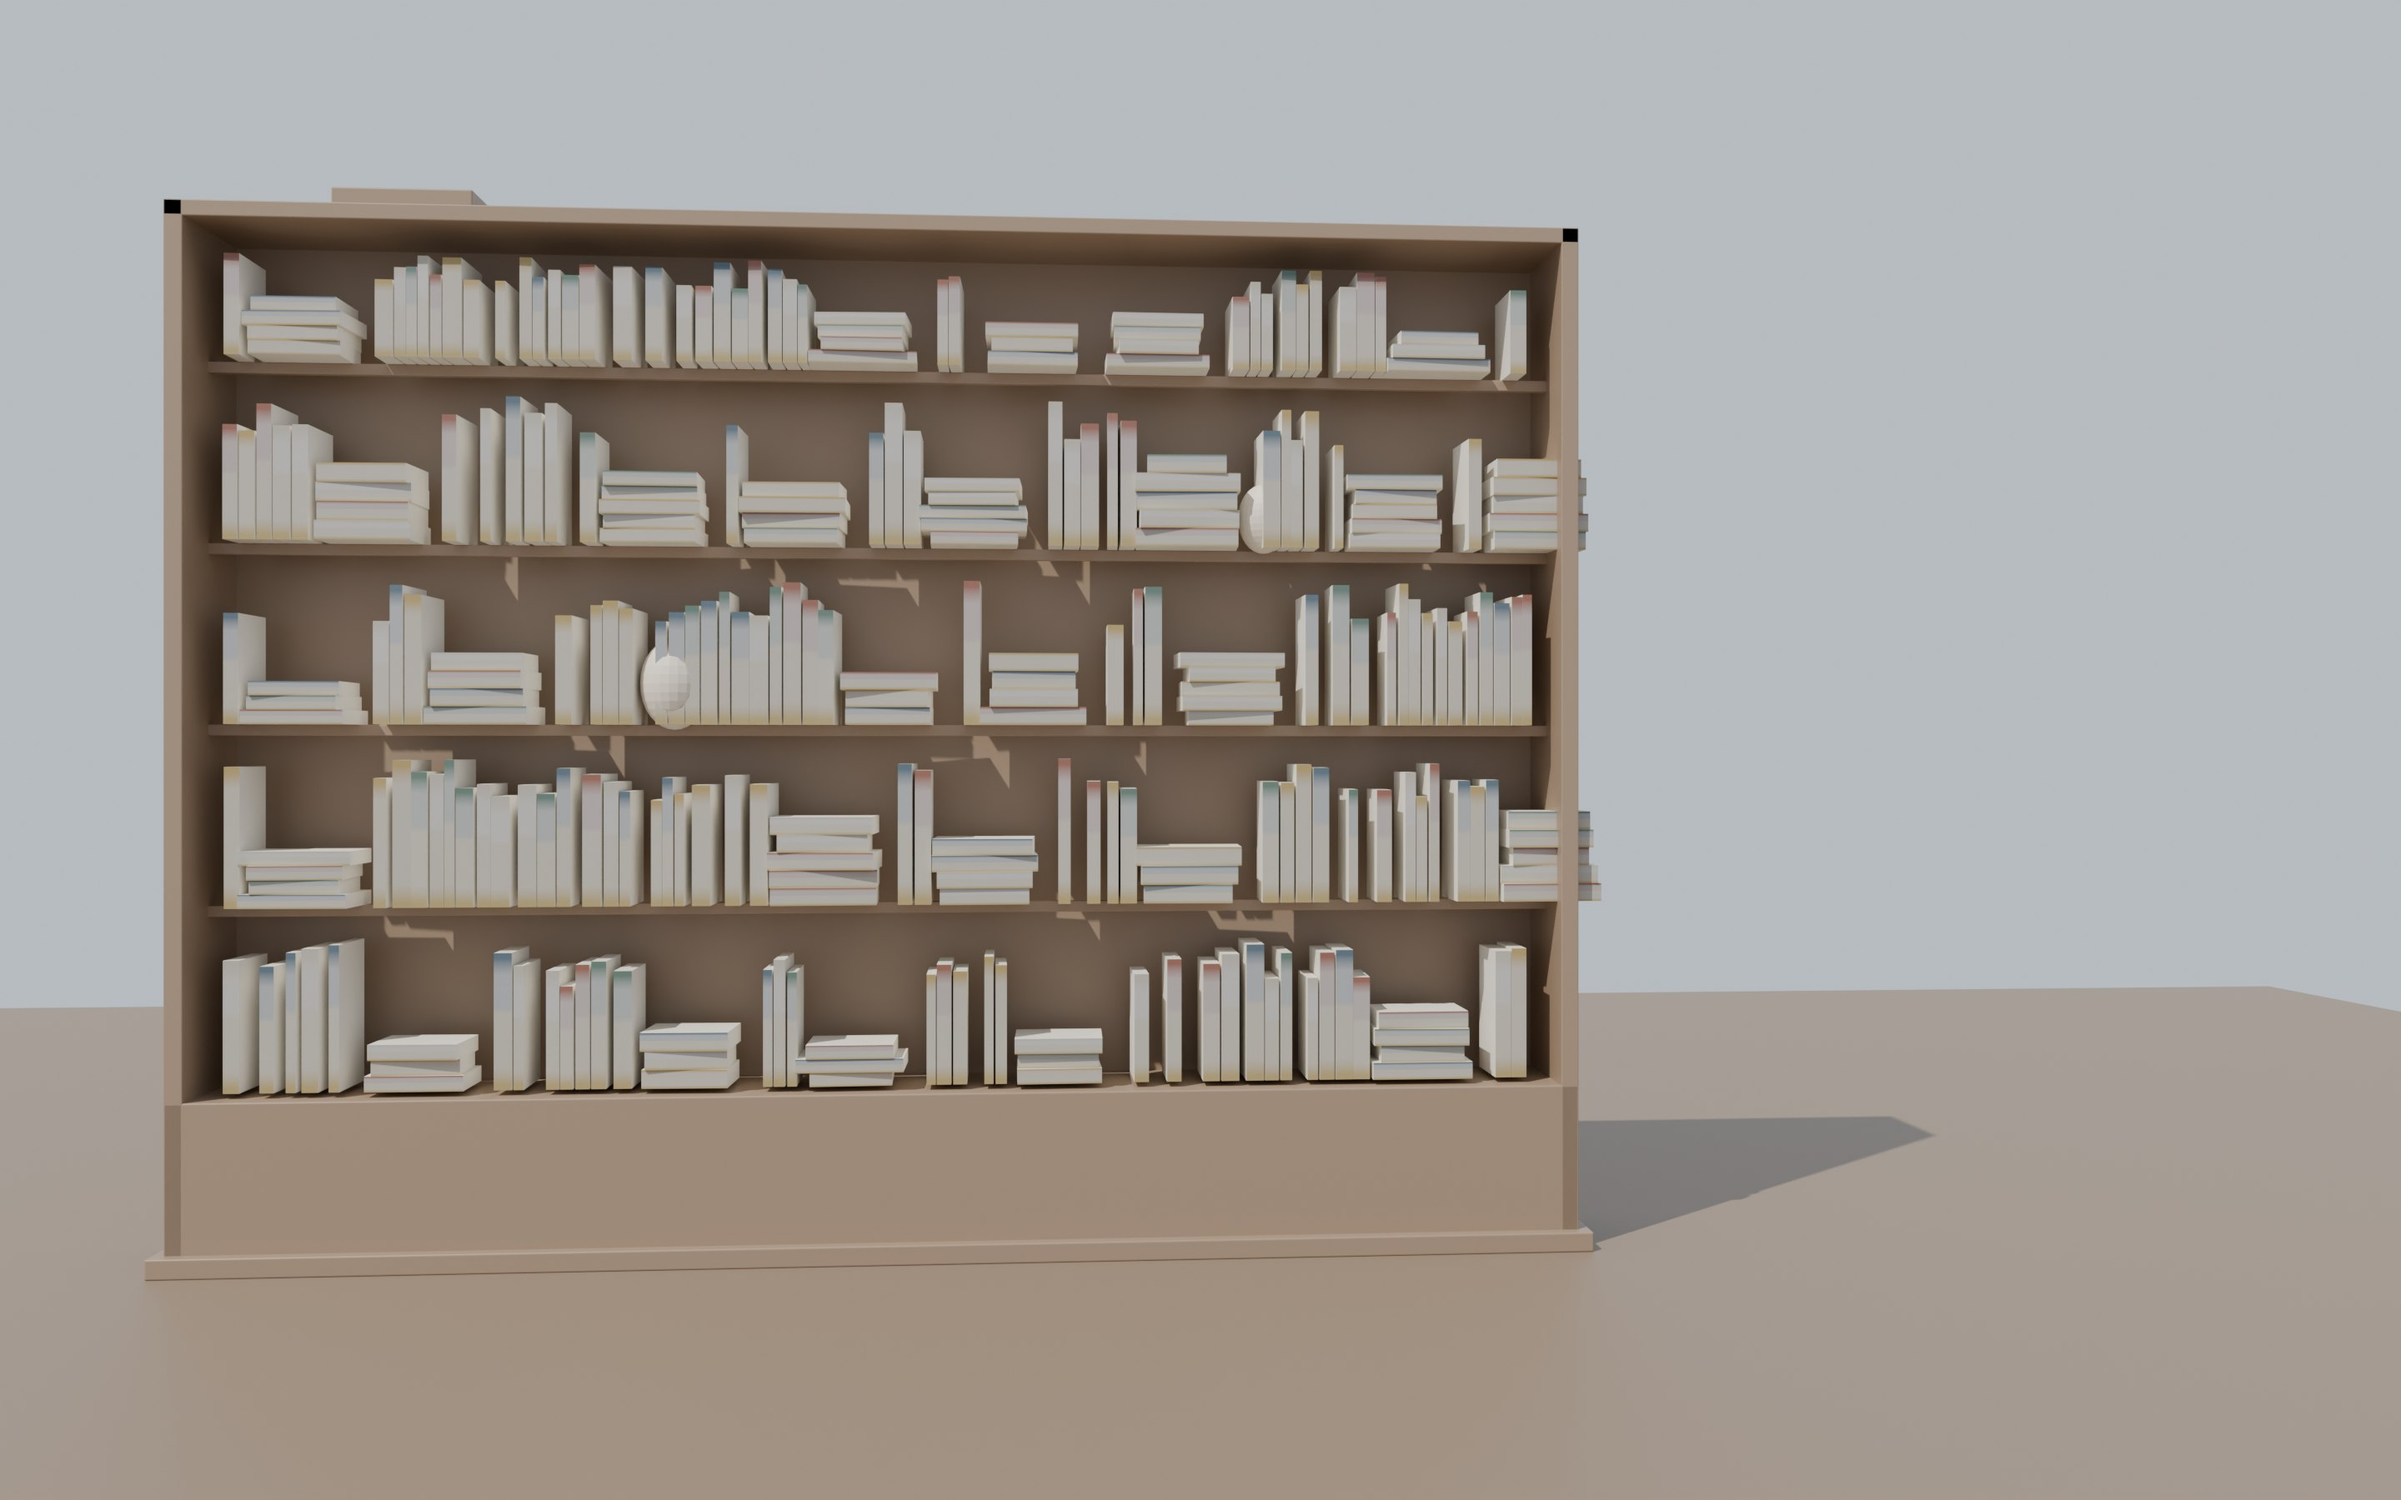
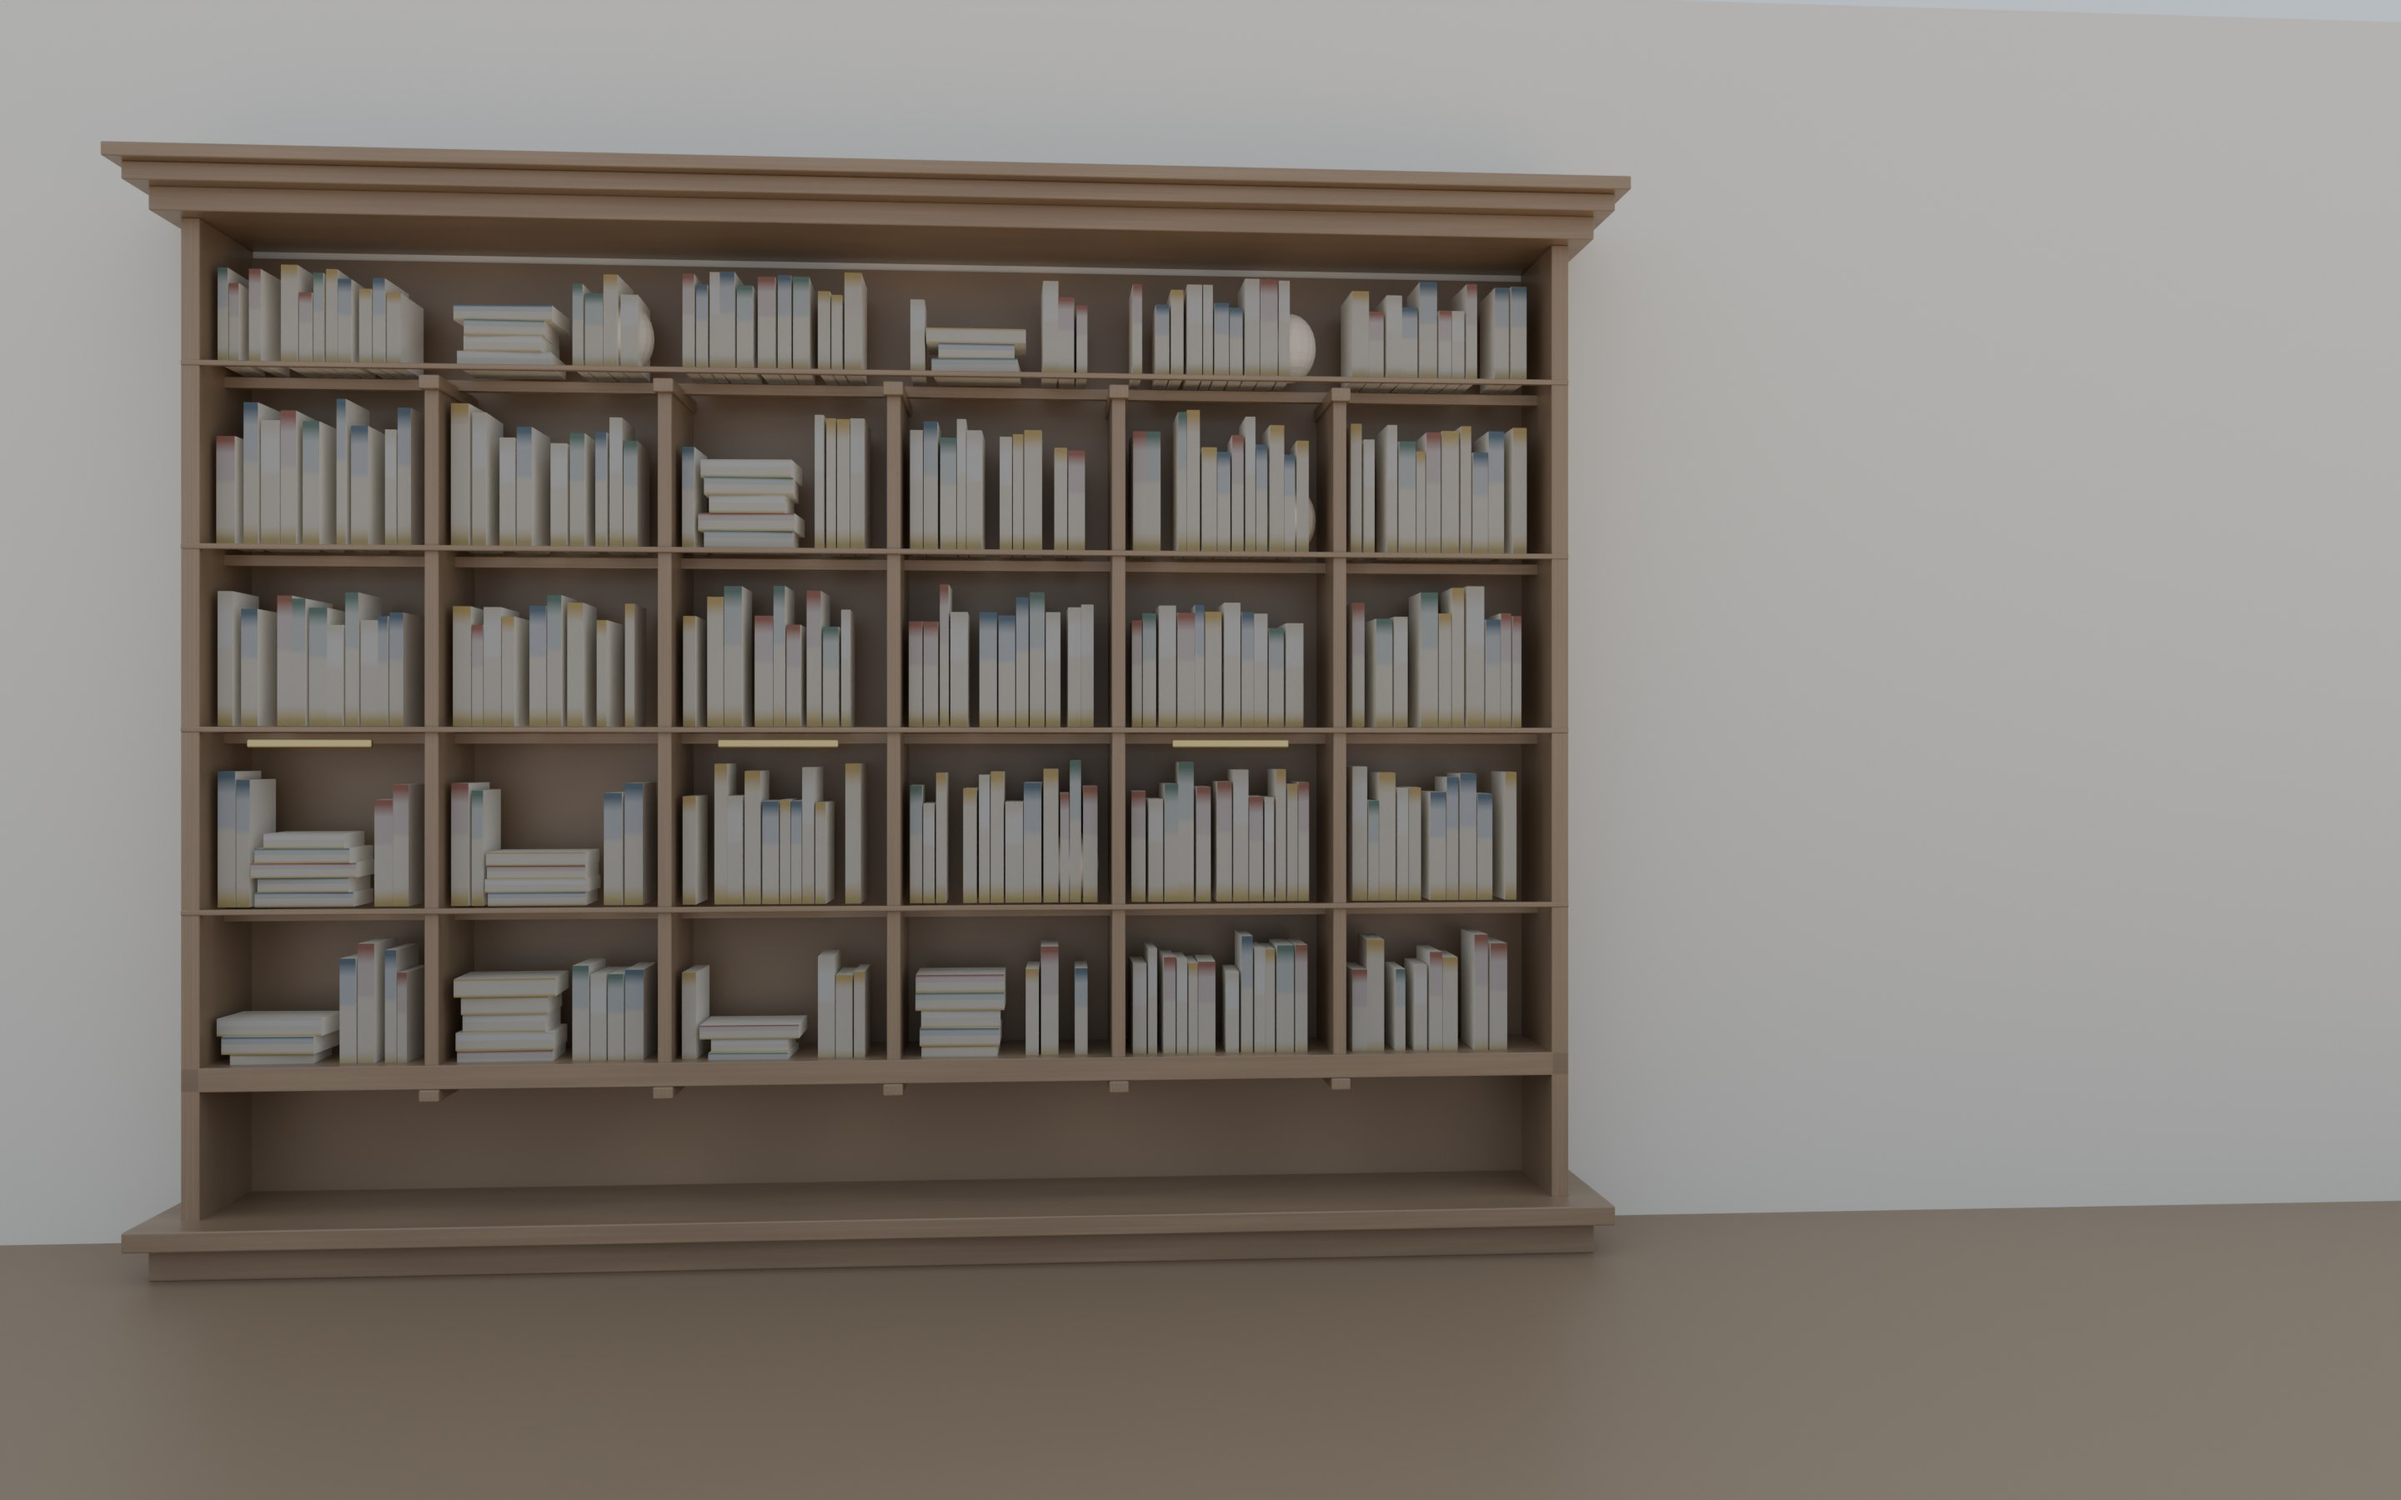
古典书架全景 v2：修复横叠书堆越界（按格填充算法）、加顶冠檐口/基座叠涩/竖向壁柱/层板线脚/清漆木纹

diff --git a/blender/build_shelf_pano_v2.py b/blender/build_shelf_pano_v2.py
@@ -1,0 +1,233 @@
+import bpy, math, os, random
+from math import radians as rad
+
+BASE = os.path.dirname(os.path.abspath(__file__))
+OUT = os.path.join(BASE, "cover_shelf_pano.png")
+random.seed(31)
+
+bpy.ops.wm.read_factory_settings(use_empty=True)
+scene = bpy.context.scene
+
+def link(ob):
+    for c in list(ob.users_collection):
+        if c is not scene.collection: c.objects.unlink(ob)
+    if ob.name not in scene.collection.objects:
+        scene.collection.objects.link(ob)
+    return ob
+
+def base_mat(name, base, rough, metallic=0.0):
+    m = bpy.data.materials.new(name); m.use_nodes = True
+    b = next(n for n in m.node_tree.nodes if n.type == 'BSDF_PRINCIPLED')
+    b.inputs["Base Color"].default_value = (*base, 1)
+    b.inputs["Roughness"].default_value = rough
+    b.inputs["Metallic"].default_value = metallic
+    return m, b
+
+def cube(name, sx, sy, sz, pos, m, bev=0.004):
+    bpy.ops.mesh.primitive_cube_add(size=1)
+    ob = bpy.context.active_object; ob.name = name
+    ob.scale = (sx, sy, sz); bpy.ops.object.transform_apply(scale=True)
+    if bev > 0:
+        bv = ob.modifiers.new("bev", "BEVEL"); bv.width = bev; bv.segments = 3
+    ob.location = pos; ob.data.materials.append(m); return link(ob)
+
+# ---------------- 古典胡桃木纹：直纹+扰动+清漆 ----------------
+M_SHELF, sb = base_mat("shelf_classic", (0.26, 0.18, 0.115), .38)
+snt = M_SHELF.node_tree
+wave = snt.nodes.new("ShaderNodeTexWave")
+wave.inputs["Scale"].default_value = 1.6
+wave.inputs["Distortion"].default_value = 9
+wave.inputs["Detail"].default_value = 3
+wnoise = snt.nodes.new("ShaderNodeTexNoise"); wnoise.inputs["Scale"].default_value = 5
+wramp = snt.nodes.new("ShaderNodeValToRGB")
+wramp.color_ramp.elements[0].color = (.26, .18, .115, 1)
+wramp.color_ramp.elements[1].color = (.38, .27, .17, 1)
+mixw = snt.nodes.new("ShaderNodeMixRGB"); mixw.blend_type = 'MULTIPLY'; mixw.inputs["Fac"].default_value = .35
+snt.links.new(wnoise.outputs["Fac"], mixw.inputs["Color1"])
+snt.links.new(wave.outputs["Color"], mixw.inputs["Color2"])
+snt.links.new(mixw.outputs["Color"], wramp.inputs["Fac"])
+snt.links.new(wramp.outputs["Color"], sb.inputs["Base Color"])
+sb.inputs["Coat Weight"].default_value = .22           # 清漆层
+sb.inputs["Coat Roughness"].default_value = .25
+wbump = snt.nodes.new("ShaderNodeBump"); wbump.inputs["Strength"].default_value = .06
+snt.links.new(mixw.outputs["Color"], wbump.inputs["Height"])
+snt.links.new(wbump.outputs["Normal"], sb.inputs["Normal"])
+M_WALL, _ = base_mat("wall", (0.86, 0.83, .75), .9)
+M_VASE, _ = base_mat("vase", (0.72, 0.64, 0.53), .55)
+M_BRASS, _ = base_mat("brass", (0.690, 0.553, 0.243), .3, .9)
+
+# ---------------- 书本双材质（书脊布面烫金 / 纸页层叠） ----------------
+bm = bpy.data.materials.new("book_pro"); bm.use_nodes = True
+nt = bm.node_tree
+bsdf = next(n for n in nt.nodes if n.type == 'BSDF_PRINCIPLED')
+geo = nt.nodes.new("ShaderNodeNewGeometry")
+sep = nt.nodes.new("ShaderNodeSeparateXYZ")
+nt.links.new(geo.outputs["Normal"], sep.inputs[0])
+mr = nt.nodes.new("ShaderNodeMapRange")
+mr.inputs["From Min"].default_value = -1.0; mr.inputs["From Max"].default_value = -0.72
+mr.inputs["To Min"].default_value = 1.0;  mr.inputs["To Max"].default_value = 0.0
+mr.clamp = True
+nt.links.new(sep.outputs["Y"], mr.inputs[0])
+tc = nt.nodes.new("ShaderNodeTexCoord")
+oi = nt.nodes.new("ShaderNodeObjectInfo")
+wave = nt.nodes.new("ShaderNodeTexWave")
+wave.inputs["Scale"].default_value = 340
+wave.inputs["Distortion"].default_value = 3.5
+wave.inputs["Detail"].default_value = 2
+nt.links.new(tc.outputs["Object"], wave.inputs["Vector"])
+pr = nt.nodes.new("ShaderNodeValToRGB")
+pr.color_ramp.elements[0].color = (.93, .90, .82, 1)
+pr.color_ramp.elements[1].color = (.68, .62, .50, 1)
+nt.links.new(wave.outputs["Fac"], pr.inputs["Fac"])
+bp = nt.nodes.new("ShaderNodeBump"); bp.inputs["Strength"].default_value = .3
+nt.links.new(wave.outputs["Fac"], bp.inputs["Height"])
+sr = nt.nodes.new("ShaderNodeValToRGB"); sr.color_ramp.interpolation = 'CONSTANT'
+for i, (p, c) in enumerate([(.00, (.50, .20, .14)), (.18, (.19, .32, .26)), (.38, (.76, .55, .20)),
+                            (.58, (.16, .25, .33)), (.78, (.86, .80, .68)), (1.0, (.38, .25, .15))]):
+    e = sr.color_ramp.elements[i] if i < 2 else sr.color_ramp.elements.new(p)
+    e.position = p; e.color = (*c, 1)
+nt.links.new(oi.outputs["Random"], sr.inputs["Fac"])
+sepO = nt.nodes.new("ShaderNodeSeparateXYZ")
+nt.links.new(tc.outputs["Object"], sepO.inputs[0])
+gold_mr = nt.nodes.new("ShaderNodeMapRange")
+gold_mr.inputs["From Min"].default_value = .06; gold_mr.inputs["From Max"].default_value = .10
+gold_mr.inputs["To Min"].default_value = 1.0;  gold_mr.inputs["To Max"].default_value = 0.0
+gold_mr.clamp = True
+nt.links.new(sepO.outputs["Z"], gold_mr.inputs[0])
+gold = nt.nodes.new("ShaderNodeMixRGB"); gold.blend_type = 'MIX'
+gold.inputs["Color2"].default_value = (.78, .60, .25, 1)
+nt.links.new(gold_mr.outputs["Result"], gold.inputs["Fac"])
+nt.links.new(sr.outputs["Color"], gold.inputs["Color1"])
+abz = nt.nodes.new("ShaderNodeMath"); abz.operation = 'ABSOLUTE'
+nt.links.new(sepO.outputs["Z"], abz.inputs[0])
+edge_mr = nt.nodes.new("ShaderNodeMapRange")
+edge_mr.inputs["From Min"].default_value = .34; edge_mr.inputs["From Max"].default_value = .46
+edge_mr.inputs["To Min"].default_value = .35;  edge_mr.inputs["To Max"].default_value = 1.0
+edge_mr.clamp = True
+nt.links.new(abz.outputs["Value"], edge_mr.inputs[0])
+dark = nt.nodes.new("ShaderNodeMixRGB"); dark.blend_type = 'MULTIPLY'; dark.inputs["Fac"].default_value = 1.0
+nt.links.new(edge_mr.outputs["Result"], dark.inputs["Fac"])
+nt.links.new(gold.outputs["Color"], dark.inputs["Color2"])
+mixm = nt.nodes.new("ShaderNodeMixRGB"); mixm.blend_type = 'MIX'
+nt.links.new(mr.outputs["Result"], mixm.inputs["Fac"])
+nt.links.new(pr.outputs["Color"], mixm.inputs["Color1"])
+nt.links.new(dark.outputs["Color"], mixm.inputs["Color2"])
+nt.links.new(mixm.outputs["Color"], bsdf.inputs["Base Color"])
+nt.links.new(bp.outputs["Normal"], bsdf.inputs["Normal"])
+bsdf.inputs["Roughness"].default_value = .58
+
+# ---------------- 古典书架框架（全宽 3.5m，6 格） ----------------
+SX0, SX1, ZT, D, YW = -1.75, 1.75, 2.62, .34, 1.86
+cube("side_L", .045, D, ZT, (SX0+.0225, YW, ZT/2), M_SHELF, .003)
+cube("side_R", .045, D, ZT, (SX1-.0225, YW, ZT/2), M_SHELF, .003)
+cube("back", SX1-SX0, .022, ZT-.04, (0, YW+D/2, ZT/2), M_SHELF, 0)
+LVL = [.42, .875, 1.33, 1.785, 2.24]
+for z in LVL[1:]:
+    cube(f"lv_{z}", SX1-SX0, .026, .028, (0, YW-.006, z), M_SHELF, .002)
+    lip = cube(f"lip_{z}", SX1-SX0, .018, .014, (0, YW-D/2+.006, z+.021), M_SHELF, .003)  # 层板前沿线脚
+# 竖向壁柱（6 格 5 根内隔 + 柱头柱脚）
+NBAY = 6
+inner = (SX1-SX0-.09)
+bw = (inner - (NBAY-1)*.035) / NBAY
+BX = []
+for i in range(NBAY):
+    bx0 = SX0+.045 + i*(bw+.035)
+    BX.append((bx0+.02, bx0+.02+bw-.04))
+for i in range(1, NBAY):
+    xp = SX0+.045 + i*bw + (i-1)*.035 + .0175
+    cube(f"pillar_{i}", .035, D-.02, LVL[-1]-LVL[0], (xp, YW, (LVL[0]+LVL[-1])/2), M_SHELF, .004)
+    cube(f"phead_{i}", .05, D+.012, .035, (xp, YW-.006, LVL[-1]-.02), M_SHELF, .004)   # 柱头
+    cube(f"pfoot_{i}", .05, D+.012, .03, (xp, YW-.006, LVL[0]+.015), M_SHELF, .004)    # 柱脚
+# 基座两层叠涩
+cube("plinth1", SX1-SX0+.10, D+.09, .085, (0, YW-.02, .042), M_SHELF, .004)
+cube("plinth2", SX1-SX0+.18, D+.15, .05, (0, YW-.045, .1075), M_SHELF, .004)
+# 顶冠三层出檐
+cube("cor1", SX1-SX0+.10, D+.09, .06, (0, YW-.02, ZT+.03), M_SHELF, .004)
+cube("cor2", SX1-SX0+.18, D+.15, .045, (0, YW-.045, ZT+.082), M_SHELF, .004)
+cube("cor3", SX1-SX0+.24, D+.20, .035, (0, YW-.06, ZT+.122), M_SHELF, .004)
+cube("base_cap", SX1-SX0, D, .06, (0, YW, .45+.03), M_SHELF, .002)   # 底柜台面
+
+# ---------------- 书（按格填充，几何上不可能越界） ----------------
+book_mesh = bpy.data.meshes.new("bookm")
+import bmesh
+bmm = bmesh.new(); bmesh.ops.create_cube(bmm, size=1); bmm.to_mesh(book_mesh); bmm.free()
+ROWS = LVL + [ZT - .04]
+for li in range(len(LVL)):
+    z0, z1 = LVL[li] + (.06 if li == 0 else .018), ROWS[li+1]
+    for (gx0, gx1) in BX:
+        cursor = gx0
+        while cursor < gx1 - .05:
+            if random.random() < .14 and gx1 - cursor > .38:   # 横叠堆（剩余够宽才放）
+                n2 = random.randint(3, 5); hh = random.uniform(.032, .048)
+                for k in range(n2):
+                    ob = bpy.data.objects.new(f"hb{li}{k}_{cursor:.2f}", book_mesh)
+                    ob.scale = (random.uniform(.19, .26), random.uniform(.15, .18), hh)
+                    ob.location = (cursor + .13, YW - .04, z0 + .012 + hh/2 + k*hh)
+                    ob.rotation_euler = (0, 0, random.uniform(-.05, .05))
+                    ob.data.materials.append(bm); link(ob)
+                cursor += .30
+            else:                                               # 直立书
+                t = random.uniform(.022, .046)
+                h = (z1 - z0 - .05) * random.uniform(.66, .96)
+                ob = bpy.data.objects.new(f"b{li}_{cursor:.2f}", book_mesh)
+                ob.scale = (t, .18, h)
+                ob.location = (cursor + t/2, YW - .025, z0 + .012 + h/2)
+                ob.rotation_euler = (0, 0, random.uniform(-.03, .03))
+                ob.data.materials.append(bm); link(ob)
+                cursor += t + (random.uniform(.01, .05) if random.random() < .26 else .004)
+        # 每格偶发收尾摆件
+        if random.random() < .18:
+            bpy.ops.mesh.primitive_uv_sphere_add(segments=20, ring_count=14, radius=.07)
+            v = bpy.context.active_object; v.name = f"vase{li}_{gx0:.1f}"
+            v.scale = (1, 1, 1.3); v.location = (gx1-.08, YW-.045, z0+.014+.091)
+            v.data.materials.append(M_VASE); link(v)
+
+# 黄铜格栅托架（古典铜饰）
+for gx0, gx1 in BX[:6:2]:
+    br = cube(f"brass_{gx0:.1f}", .30, .02, .02, ((gx0+gx1)/2, YW-D/2-.008, LVL[2]-.014), M_BRASS, .004)
+
+# ---------------- 地面/墙 ----------------
+fm = bpy.data.materials.new("floor"); fm.use_nodes = True
+fb = next(n for n in fm.node_tree.nodes if n.type == 'BSDF_PRINCIPLED')
+fb.inputs["Base Color"].default_value = (.30, .22, .145, 1)
+fb.inputs["Roughness"].default_value = .45
+bpy.ops.mesh.primitive_plane_add(size=16); fl = bpy.context.active_object
+fl.data.materials.append(fm); link(fl)
+cube("wall", 12, .18, 3.4, (0, 2.12, 1.7), M_WALL, 0)
+
+# ---------------- 日光 ----------------
+w = bpy.data.worlds.new("w"); scene.world = w; w.use_nodes = True
+wb = next(n for n in w.node_tree.nodes if n.type == 'BACKGROUND')
+wb.inputs["Color"].default_value = (.55, .62, .72, 1)
+sun = bpy.data.lights.new("sun", 'SUN'); sun.energy = 4.0; sun.color = (1, .97, .92); sun.angle = rad(1.8)
+so = bpy.data.objects.new("sun", sun); so.rotation_euler = (rad(-42), rad(10), rad(-18)); link(so)
+def area(name, loc, rot, power, size, color=(1, .97, .90)):
+    ld = bpy.data.lights.new(name, 'AREA'); ld.energy = power; ld.size = size; ld.color = color
+    ob = bpy.data.objects.new(name, ld); ob.location = loc; ob.rotation_euler = rot; return link(ob)
+area("window", (3.2, -2.6, 1.9), (0, rad(62), rad(128)), 560, 2.6)
+area("fill", (-3.0, -1.6, 1.6), (0, rad(-58), rad(-75)), 140, 2.0, (.80, .87, 1.0))
+
+# ---------------- 相机全景 ----------------
+cd = bpy.data.cameras.new("cam"); cd.lens = 30
+cam = bpy.data.objects.new("cam", cd); cam.location = (0.38, -3.45, 1.30); link(cam)
+cam.rotation_euler = (rad(90), 0, rad(-4.5))
+scene.camera = cam
+
+scene.render.engine = 'CYCLES'
+scene.cycles.samples = 288
+scene.cycles.use_denoising = True
+scene.cycles.max_bounces = 8
+try:
+    scene.cycles.device = 'GPU'
+    prefs = bpy.context.preferences.addons['cycles'].preferences
+    prefs.compute_device_type = 'METAL'; prefs.get_devices()
+    for d in prefs.devices: d.use = True
+except Exception as e:
+    print("GPU fallback:", e)
+scene.view_settings.view_transform = 'AgX'
+scene.view_settings.look = 'AgX - Base Contrast'
+scene.view_settings.exposure = .3
+scene.render.resolution_x = 2880; scene.render.resolution_y = 1800
+scene.render.filepath = OUT
+bpy.ops.render.render(write_still=True)
+print("PANO_V2_DONE", OUT)
